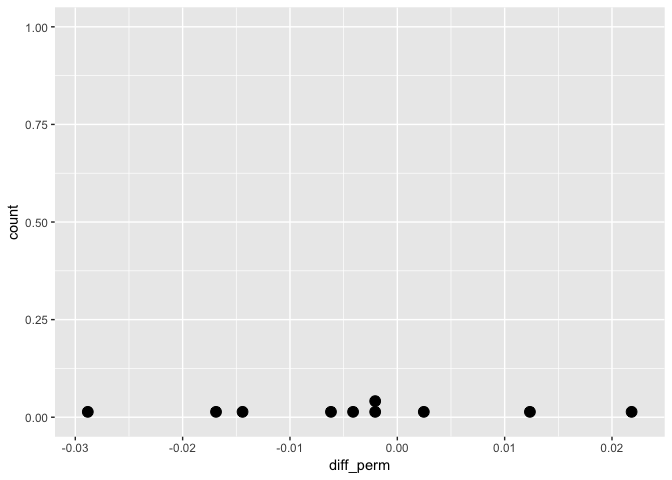
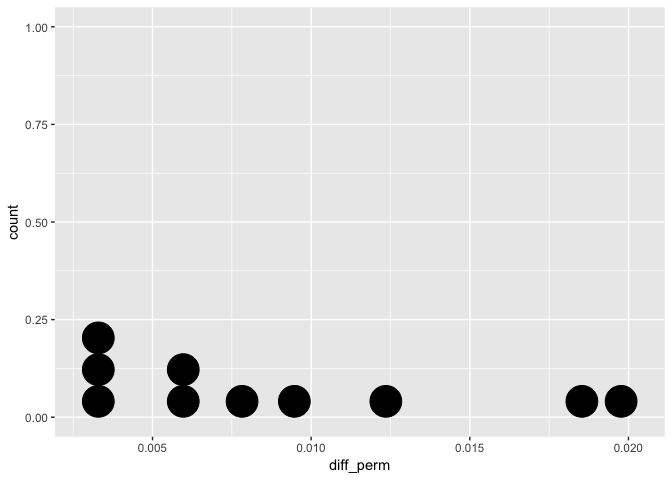
Inference updated

diff --git a/Inference.md b/Inference.md
@@ -10,6 +10,7 @@ Shravan Kuchkula
 -   [Data set description](#data-set-description)
 -   [Understanding the NULL DISTRIBUTION](#understanding-the-null-distribution)
     -   [Randomization density](#randomization-density)
+-   [Example 2: Gender discrimination](#example-2-gender-discrimination)
 
 Foundations of inference
 ------------------------
@@ -56,77 +57,6 @@ libs <- c("readr", "dplyr", "tidyr", "ggplot2",
 
 installRequiredPackages(libs)
 ```
-
-    ## Loading required package: readr
-
-    ## Loading required package: dplyr
-
-    ## 
-    ## Attaching package: 'dplyr'
-
-    ## The following objects are masked from 'package:stats':
-    ## 
-    ##     filter, lag
-
-    ## The following objects are masked from 'package:base':
-    ## 
-    ##     intersect, setdiff, setequal, union
-
-    ## Loading required package: tidyr
-
-    ## Loading required package: ggplot2
-
-    ## Loading required package: magrittr
-
-    ## 
-    ## Attaching package: 'magrittr'
-
-    ## The following object is masked from 'package:tidyr':
-    ## 
-    ##     extract
-
-    ## Loading required package: markdown
-
-    ## Loading required package: knitr
-
-    ## Loading required package: yaml
-
-    ## Loading required package: corrplot
-
-    ## Loading required package: GGally
-
-    ## 
-    ## Attaching package: 'GGally'
-
-    ## The following object is masked from 'package:dplyr':
-    ## 
-    ##     nasa
-
-    ## Loading required package: broom
-
-    ## Loading required package: psych
-
-    ## 
-    ## Attaching package: 'psych'
-
-    ## The following objects are masked from 'package:ggplot2':
-    ## 
-    ##     %+%, alpha
-
-    ## Loading required package: car
-
-    ## 
-    ## Attaching package: 'car'
-
-    ## The following object is masked from 'package:psych':
-    ## 
-    ##     logit
-
-    ## The following object is masked from 'package:dplyr':
-    ## 
-    ##     recode
-
-    ## Loading required package: NHANES
 
     ##    readr    dplyr    tidyr  ggplot2 magrittr markdown    knitr     yaml 
     ##     TRUE     TRUE     TRUE     TRUE     TRUE     TRUE     TRUE     TRUE 
@@ -220,15 +150,15 @@ homes %>%
     ## # A tibble: 10 × 3
     ##    Gender HomeOwn HomeOwn_perm
     ##    <fctr>  <fctr>       <fctr>
-    ## 1    male     Own         Rent
+    ## 1    male     Own          Own
     ## 2    male     Own          Own
     ## 3    male     Own          Own
-    ## 4    male     Own         Rent
+    ## 4    male     Own          Own
     ## 5  female    Rent         Rent
-    ## 6    male    Rent         Rent
+    ## 6    male    Rent          Own
     ## 7    male     Own          Own
-    ## 8  female     Own         Rent
-    ## 9  female     Own         Rent
+    ## 8  female     Own          Own
+    ## 9  female     Own          Own
     ## 10 female     Own          Own
 
 Next, let's group them by `Gender`.
@@ -262,8 +192,8 @@ homes %>%
     ## # A tibble: 2 × 3
     ##   Gender prop_own_perm  prop_own
     ##   <fctr>         <dbl>     <dbl>
-    ## 1 female     0.6607362 0.6654397
-    ## 2   male     0.6623808 0.6576109
+    ## 1 female     0.6635992 0.6654397
+    ## 2   male     0.6594774 0.6576109
 
 Now the question was: "Perform a single permutation to evaluate whether home ownership status (i.e. HomeOwn) differs between the "female" and "male" groups"
 
@@ -282,9 +212,9 @@ homes %>%
 ```
 
     ## # A tibble: 1 × 2
-    ##     diff_perm    diff_orig
-    ##         <dbl>        <dbl>
-    ## 1 0.009470313 -0.007828723
+    ##    diff_perm    diff_orig
+    ##        <dbl>        <dbl>
+    ## 1 0.01358913 -0.007828723
 
 > Keep in mind, this is just a single random permutation. Next, you'll look at several permuted differences to see how they compare with the observed difference.
 
@@ -327,21 +257,21 @@ homes %>%
     ## 
     ##    replicate Gender HomeOwn
     ##        <int> <fctr>  <fctr>
-    ## 1          1   male     Own
+    ## 1          1 female    Rent
     ## 2          1   male     Own
-    ## 3          1 female    Rent
-    ## 4          1 female     Own
+    ## 3          1   male     Own
+    ## 4          1   male     Own
     ## 5          1   male     Own
-    ## 6          2   male     Own
-    ## 7          2   male     Own
+    ## 6          2 female    Rent
+    ## 7          2   male    Rent
     ## 8          2   male     Own
-    ## 9          2   male     Own
-    ## 10         2   male    Rent
-    ## 11         3 female     Own
-    ## 12         3   male     Own
+    ## 9          2 female     Own
+    ## 10         2 female    Rent
+    ## 11         3 female    Rent
+    ## 12         3   male    Rent
     ## 13         3 female     Own
-    ## 14         3   male     Own
-    ## 15         3   male    Rent
+    ## 14         3 female    Rent
+    ## 15         3 female    Rent
 
 will return three samples of 5 observations from the homes dataset you created in the last exercise. The first 5 rows will have a value of 1 in the replicate column, the next 5 rows will have a value of 2, and so on. Note that the default value for the replace argument is FALSE.
 
@@ -368,18 +298,18 @@ print(homeown_perm)
 ```
 
     ## # A tibble: 10 × 3
-    ##    replicate    diff_perm    diff_orig
-    ##        <int>        <dbl>        <dbl>
-    ## 1          1 -0.028834695 -0.007828723
-    ## 2          2 -0.001650496 -0.007828723
-    ## 3          3  0.021826767 -0.007828723
-    ## 4          4  0.012353486 -0.007828723
-    ## 5          5 -0.006181196 -0.007828723
-    ## 6          6 -0.004121787 -0.007828723
-    ## 7          7 -0.016890123 -0.007828723
-    ## 8          8  0.002468322 -0.007828723
-    ## 9          9 -0.014418832 -0.007828723
-    ## 10        10 -0.002474260 -0.007828723
+    ##    replicate   diff_perm    diff_orig
+    ##        <int>       <dbl>        <dbl>
+    ## 1          1 0.007822786 -0.007828723
+    ## 2          2 0.018531713 -0.007828723
+    ## 3          3 0.012353486 -0.007828723
+    ## 4          4 0.005763377 -0.007828723
+    ## 5          5 0.006175258 -0.007828723
+    ## 6          6 0.002880204 -0.007828723
+    ## 7          7 0.003703968 -0.007828723
+    ## 8          8 0.009470313 -0.007828723
+    ## 9          9 0.003703968 -0.007828723
+    ## 10        10 0.019767358 -0.007828723
 
 Using geom\_dotplot(), plot the differences in proportions obtained by shuffling the HomeOwn variable. Adjust the size of the dots by including binwidth = .001 in your call to geom\_dotplot()
 
@@ -436,3 +366,71 @@ ggplot(homeown_perm, aes(x = diff_perm)) +
 ```
 
 ![](Inference_files/figure-markdown_github/unnamed-chunk-14-1.png)
+
+Recall, that the logic of statistical inference is to compare the observed statistic to the distribution of statistics that come from a Null Distribution. You have now seen how to create the distribution with your own R code. The next question to ask is, how do we use the information in the Null Distribution. Remember that each dot is from a different permutation of the data. The goal is to show that our observed data are not consistent with the differences generated. We want our observed data to be different from the null, so we can claim the alternative research hypothesis is true.
+
+> IS DATA CONSISTENT WITH NULL ? HOW EXTREME ARE THE OBSERVED DATA ?
+
+38% of the data are more extreme than the observed data. This suggests that the data are consistent with the permutated distribution. Thus we say that we have no evidence that rates of cola differ by coast.
+
+Do the data come from the population ?
+
+Recall that the observed difference (i.e. the difference in proportions in the homes dataset, shown as the red vertical line) was around -0.0078, which seems to fall below the bulk of the density of shuffled differences. It is important to know, however, whether any of the randomly permuted differences were as extreme as the observed difference.
+
+In this exercise, you'll re-create this dotplot as a density plot and count the number of permuted differences that were to the left of the observed difference.
+
+Using geom\_density(), plot the permuted differences. Add a vertical red line with geom\_vline() where the observed statistic falls.
+
+``` r
+# Plot permuted differences
+ggplot(homeown_perm, aes(x = diff_perm)) + 
+  geom_density(adjust=2) +
+  geom_vline(aes(xintercept = diff_orig),
+          col = "red")
+```
+
+![](Inference_files/figure-markdown_github/unnamed-chunk-15-1.png)
+
+Count the number of permuted differences that were less than or equal to the observed difference.
+
+``` r
+# Compare permuted differences to observed difference
+homeown_perm %>%
+  summarize(sum(diff_orig >= diff_perm))
+```
+
+    ## # A tibble: 1 × 1
+    ##   `sum(diff_orig >= diff_perm)`
+    ##                           <int>
+    ## 1                           220
+
+220 permuted differences are more extreme than the observed difference. This only represents 22.0% of the null statistics, so you can conclude that the observed difference is consistent with the permuted distribution.
+
+We have learned that our data is consistent with the hypothesis of no difference in home ownership across gender.
+
+In this case, we say that the observed statistic was consistent with the null statistics. That is, 220 of the 1000 permutations were smaller than the original value. There is no evidence that the data are inconsistent with the null hypothesis
+
+Example 2: Gender discrimination
+--------------------------------
+
+As the first step of any analysis, you should look at and summarize the data. Categorical variables are often summarized using proportions, and it is always important to understand the denominator of the proportion.
+
+Do you want the proportion of women who were promoted or the proportion of promoted individuals who were women? Here, you want the first of these, so in your R code it's necessary to group\_by() the sex variable.
+
+``` r
+# Read in the dataset
+disc <- readRDS("/Users/Shravan/Downloads/disc_new.rds")
+```
+
+Using `table()` function, summarize the data as a contingency table.
+
+``` r
+table(disc)
+```
+
+    ##               sex
+    ## promote        female male
+    ##   not_promoted      7    6
+    ##   promoted         17   18
+
+Summarize the data by using group\_by() on the sex variable and finding the proportion who were promoted. Call this variable promoted\_prop. Note that with binary variables, the proportion of either value can be found using the mean() function (e.g. mean(variable == "value") )
